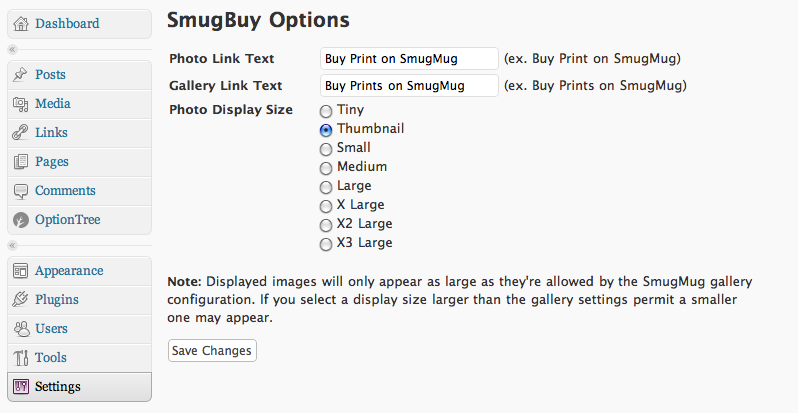
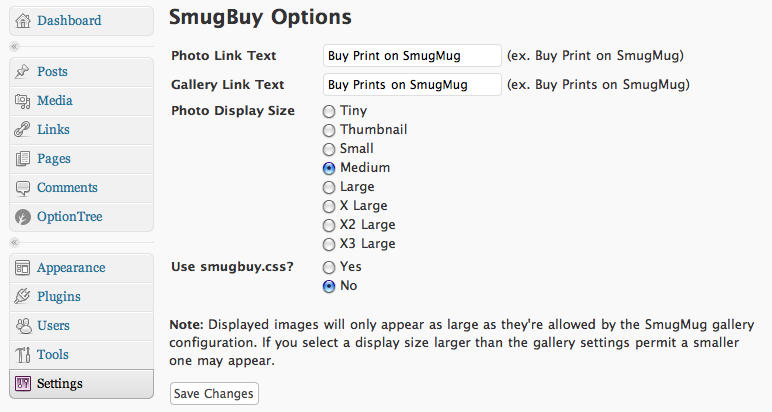
Updated trunk for 1.1.1 release
git-svn-id: https://plugins.svn.wordpress.org/smugbuy/trunk@342836 b8457f37-d9ea-0310-8a92-e5e31aec5664

diff --git a/smugbuy.css b/smugbuy.css
@@ -1,0 +1,8 @@
+a.smugbuy_photo:link,
+a.smugbuy_photo:visited,
+a.smugbuy_gallery:link,
+a.smugbuy_gallery:visited
+{
+	font-size: 15px !important;
+	padding: 0 !important;
+}

diff --git a/smugbuy.php b/smugbuy.php
@@ -38,6 +38,7 @@ function smugbuy_install() {
 add_option("smugbuy_text", 'Buy Print on SmugMug', '', 'yes');
 add_option("smugbuy_gtext", 'Buy Prints on SmugMug', '', 'yes');
 add_option("smugbuy_dsize", 'L', '', 'yes');
+add_option("smugbuy_css", 'no', '', 'yes');
 }
 
 // Deletes the database field
@@ -45,7 +46,11 @@ function smugbuy_remove() {
 delete_option('smugbuy_text');
 delete_option('smugbuy_gtext');
 delete_option('smugbuy_dsize');
+delete_option('smugbuy_css');
 }
+
+// Register the customizable stylesheet
+add_action('wp_print_styles', 'add_smugbuy_css');
 
 // [smugbuy photo="smugmug photo page URL"]
 function smugbuy_func($atts) {
@@ -63,12 +68,12 @@ function smugbuy_func($atts) {
                 $smugurl=$smugsplit[2];
             }
             if ($gallery) {
-				echo "<a href='".esc_url("http://" . $smugurl . "/buy" . strrchr($gallery, '/')) ."'>" . esc_html(get_option('smugbuy_gtext')) . "</a>";
+				echo "<a href='".esc_url("http://" . $smugurl . "/buy" . strrchr($gallery, '/')) ."' class=\"smugbuy_gallery\">" . esc_html(get_option('smugbuy_gtext')) . "</a>";
 			} else {
 				if (strtolower($display) == yes) {
 					echo "<a href='".esc_url(str_replace ('#','/',"http://" . $smugurl . "/buy" . strrchr($photo, '/'))) ."'><img src='". esc_url(str_replace('#','/',"http://" . $smugurl . strrchr($photo, '#'))) . "-" . get_option('smugbuy_dsize') . ".jpg'></a><br>";
 				}
-                    echo "<a href='".esc_url(str_replace ('#','/',"http://" . $smugurl . "/buy" . strrchr($photo, '/'))) ."'>" . esc_html(get_option('smugbuy_text')) . "</a>";
+                    echo "<a href='".esc_url(str_replace ('#','/',"http://" . $smugurl . "/buy" . strrchr($photo, '/'))) ."' class=\"smugbuy_photo\">" . esc_html(get_option('smugbuy_text')) . "</a>";
             }
         $link = ob_get_clean();
         return $link;
@@ -82,6 +87,18 @@ function add_smugbuy_settings_link($links, $file) {
  		array_unshift($links, $settings_link);
 	}
 	return $links;
+}
+
+// Function to add the custom stylesheet
+function add_smugbuy_css() {
+	if (get_option('smugbuy_css') == "yes") {
+        $smugbuy_css_url = WP_PLUGIN_URL . '/smugbuy/smugbuy.css';
+        $smugbuy_css_file = WP_PLUGIN_DIR . '/smugbuy/smugbuy.css';
+        if ( file_exists($smugbuy_css_file) ) {
+            wp_register_style('smugbuy', $smugbuy_css_url);
+            wp_enqueue_style( 'smugbuy');
+        }
+    }
 }
 
 add_shortcode('smugbuy', 'smugbuy_func');
@@ -110,12 +127,14 @@ function smugbuy_html_page() {
     <td width="500">
     <input name="smugbuy_text" type="text" size=30 id="smugbuy_text" value="<?php echo get_option('smugbuy_text'); ?>" /> (ex. Buy Print on SmugMug)</td>
     </tr>
+    <tr></tr>
     <tr valign="middle" align="left">
     <th width="150" scope="row">Gallery Link Text</th>
     <td width="500">
     <input name="smugbuy_gtext" type="text" size=30 id="smugbuy_gtext" value="<?php echo get_option('smugbuy_gtext'); ?>" /> (ex. Buy Prints on SmugMug)</td>
     </tr>
-    <tr valign="Top" align="left">
+    <tr></tr>
+    <tr valign="top" align="left">
     <th width="150" scope="row">Photo Display Size</th>
     <td width="500">
         <input name="smugbuy_dsize" type="radio" id="smugbuy_dsize" value="Ti" <?php if (get_option('smugbuy_dsize') == "Ti") {echo "checked";} ?> /> Tiny <br>
@@ -127,12 +146,19 @@ function smugbuy_html_page() {
         <input name="smugbuy_dsize" type="radio" id="smugbuy_dsize" value="X2" <?php if (get_option('smugbuy_dsize') == "X2") {echo "checked";} ?> /> X2 Large<br>
         <input name="smugbuy_dsize" type="radio" id="smugbuy_dsize" value="X3" <?php if (get_option('smugbuy_dsize') == "X3") {echo "checked";} ?> /> X3 Large</td>
     </tr>
+    <tr></tr>
+	<tr valign="top" align="left">
+    <th width="150" scope="row">Use smugbuy.css?</th>
+    <td width="500">
+    	<input name="smugbuy_css" type="radio" id="smugbuy_css" value="yes" <?php if (get_option('smugbuy_css') == "yes") {echo "checked";} ?> /> Yes<br>
+		<input name="smugbuy_css" type="radio" id="smugbuy_css" value="no" <?php if (get_option('smugbuy_css') == "no") {echo "checked";} ?> /> No</td>
+	</tr>
     </table><br>
 	<strong>Note:</strong> Displayed images will only appear as large as they're allowed by the SmugMug gallery<br>
 	configuration.  If you select a display size larger than the gallery settings permit a smaller
 	<br>one may appear.<br>
     <input type="hidden" name="action" value="update" />
-    <input type="hidden" name="page_options" value="smugbuy_text,smugbuy_gtext,smugbuy_dsize" />
+    <input type="hidden" name="page_options" value="smugbuy_text,smugbuy_gtext,smugbuy_dsize,smugbuy_css" />
 
     <p>
     <input type="submit" value="<?php _e('Save Changes') ?>" />
